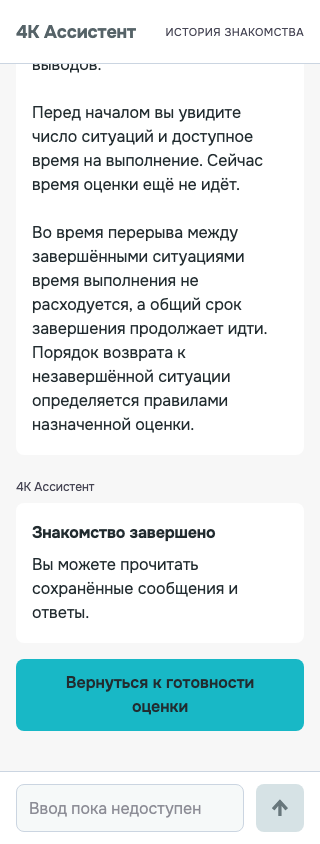
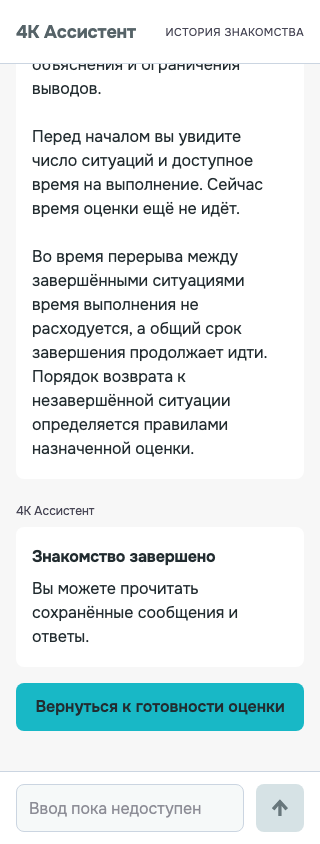
P4K-W02-01: сохранить высоту кнопки 48px на узком экране

Changed region(s): [[0.0312, 0.0616, 0.9688, 0.8626], [0.4375, 0.0616, 0.75, 0.0924]]

diff --git a/web/styles/screens/onboarding.css b/web/styles/screens/onboarding.css
@@ -109,7 +109,7 @@
     #onboarding-panel .onboarding-bubble { padding: 18px 16px; }
     #onboarding-panel .onboarding-data { grid-template-columns: 1fr; gap: 16px; }
     #onboarding-panel .onboarding-actions { flex-direction: column; gap: 10px; }
-    #onboarding-panel .onboarding-actions .primary-button, #onboarding-panel .onboarding-actions .ghost-button { min-width: 0; width: 100%; }
+    #onboarding-panel .onboarding-actions .primary-button, #onboarding-panel .onboarding-actions .ghost-button { min-width: 0; width: 100%; padding-inline: 16px; }
     #onboarding-panel .onboarding-history { padding-block: 24px 16px; }
     #onboarding-panel .onboarding-composer { padding-top: 12px; padding-bottom: max(12px, env(safe-area-inset-bottom)); }
     #onboarding-panel #onboarding-dialog { padding: 20px; }

diff --git a/docs/evc/tasks/p4k-w02-01/STATE.md b/docs/evc/tasks/p4k-w02-01/STATE.md
@@ -86,3 +86,14 @@ PASS, own group absent=true/ports closed. Finalbaseb0bf7a4/candidate2.1.7,
 Final source/candidate/tested SHA `ea78b533b031faabd560d33709e793fb9efc4687`.
 Его runtime content подтверждён checked-content.json. Следующий handoff docs-only
 не меняет проверенный состав; PR221 CI должен относиться к его точному HEAD.
+Финальный визуальный review320: длинный текст history return переносился на2строки.
+Уменьшён только mobile horizontal button padding24→16, чтобы все основные кнопки
+сохранили48px. run07 повторяет тот же11targeted browser по прежнему finite-profile,
+с записью owned PID/ports до использования; исходные чужие ресурсы сохраняются.
+JS/API не менялись; frontend324/lint/build отrun06 применимы по прежним JS-хешам.
+
+Run07 PASS11/11/12.6s;320/390/1440px main buttons48px (320px включён), все owned
+ports закрыты, group absent=true. Финальный CSS-only diff и test expectation
+зафиксированы вместе с updated content hashes. Дальше — CI точного PR head.
+Итоговый immutable head и результатыCI сохраняются также в RELEASE_STATUS.json
+послеCI без дополнительного изменения head; это локальный handoff receipt.
